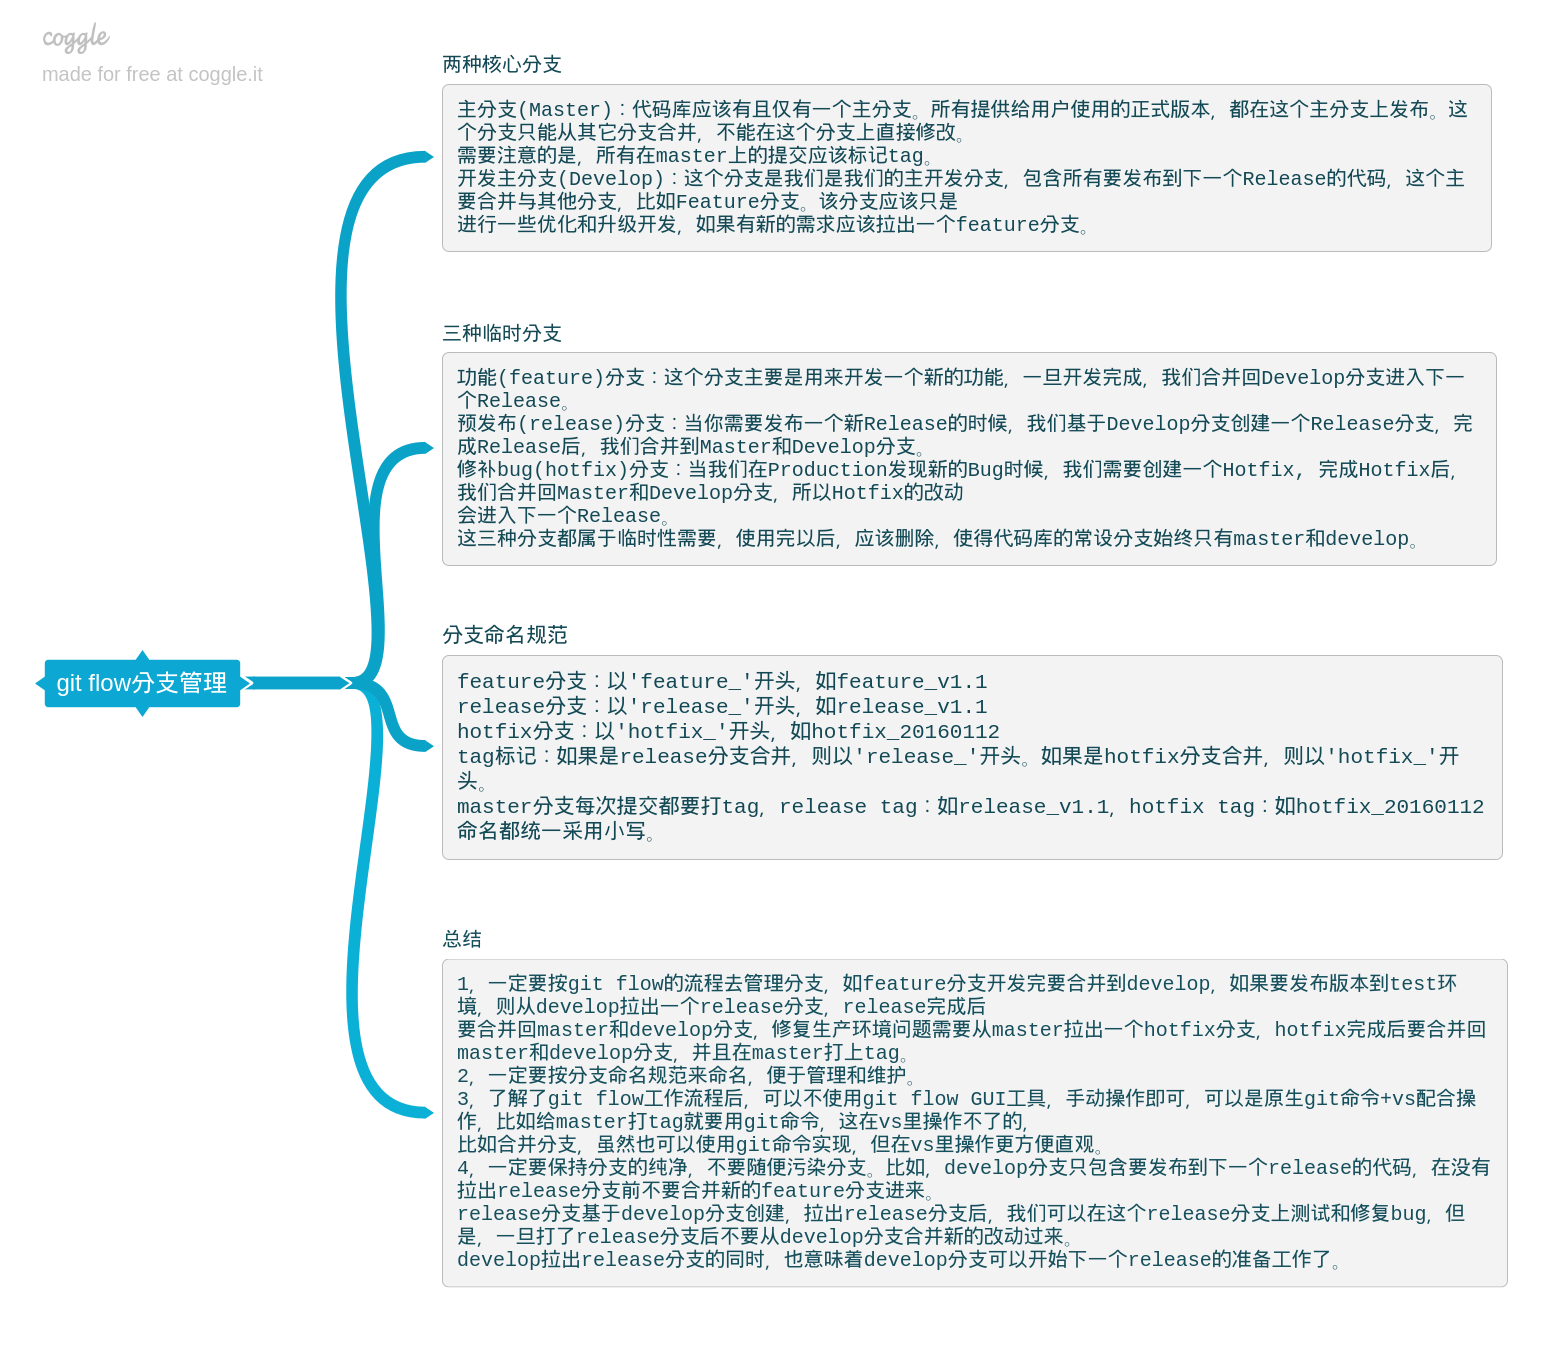
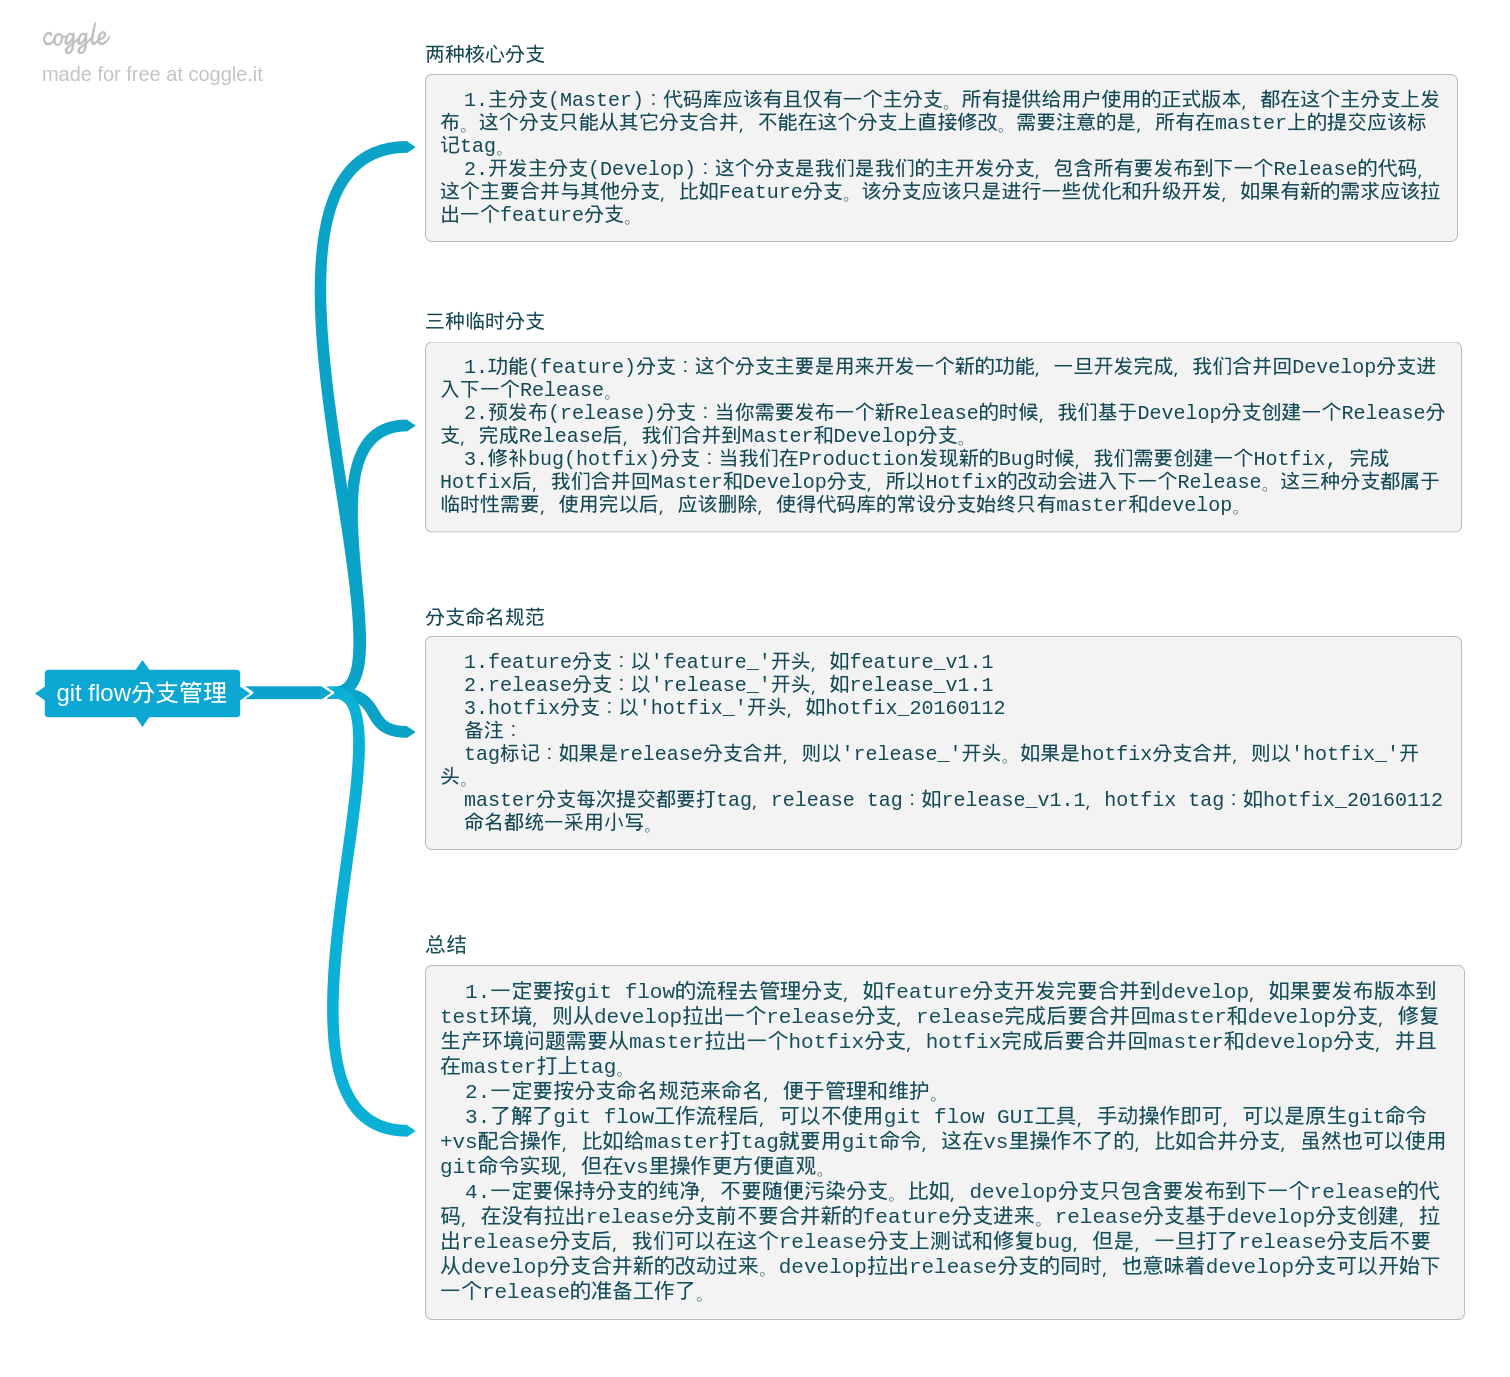
update

Changed region(s): [[0.0311, 0.0308, 0.9649, 0.9545], [0.0311, 0.0, 0.1556, 0.0616]]

diff --git a/iOS 知识总结/git flow分支管理.md b/iOS 知识总结/git flow分支管理.md
@@ -1,24 +1,25 @@
 * 两种核心分支
 
 ```
-    主分支(Master)：代码库应该有且仅有一个主分支。所有提供给用户使用的正式版本，都在这个主分支上发布。这个分支只能从其它分支合并，不能在这个分支上直接修改。需要注意的是，所有在master上的提交应该标记tag。
-    开发主分支(Develop)：这个分支是我们是我们的主开发分支，包含所有要发布到下一个Release的代码，这个主要合并与其他分支，比如Feature分支。该分支应该只是进行一些优化和升级开发，如果有新的需求应该拉出一个feature分支。
+    1.主分支(Master)：代码库应该有且仅有一个主分支。所有提供给用户使用的正式版本，都在这个主分支上发布。这个分支只能从其它分支合并，不能在这个分支上直接修改。需要注意的是，所有在master上的提交应该标记tag。
+    2.开发主分支(Develop)：这个分支是我们是我们的主开发分支，包含所有要发布到下一个Release的代码，这个主要合并与其他分支，比如Feature分支。该分支应该只是进行一些优化和升级开发，如果有新的需求应该拉出一个feature分支。
 ```    
 * 三种临时分支
 
 ```
-    功能(feature)分支：这个分支主要是用来开发一个新的功能，一旦开发完成，我们合并回Develop分支进入下一个Release。
-    预发布(release)分支：当你需要发布一个新Release的时候，我们基于Develop分支创建一个Release分支，完成Release后，我们合并到Master和Develop分支。
-    修补bug(hotfix)分支：当我们在Production发现新的Bug时候，我们需要创建一个Hotfix, 完成Hotfix后，我们合并回Master和Develop分支，所以Hotfix的改动会进入下一个Release。
+    1.功能(feature)分支：这个分支主要是用来开发一个新的功能，一旦开发完成，我们合并回Develop分支进入下一个Release。
+    2.预发布(release)分支：当你需要发布一个新Release的时候，我们基于Develop分支创建一个Release分支，完成Release后，我们合并到Master和Develop分支。
+    3.修补bug(hotfix)分支：当我们在Production发现新的Bug时候，我们需要创建一个Hotfix, 完成Hotfix后，我们合并回Master和Develop分支，所以Hotfix的改动会进入下一个Release。
     这三种分支都属于临时性需要，使用完以后，应该删除，使得代码库的常设分支始终只有master和develop。
 
 ```
 * 分支命名规范
 
 ```
-    feature分支：以'feature_'开头，如feature_v1.1
-    release分支：以'release_'开头，如release_v1.1
-    hotfix分支：以'hotfix_'开头，如hotfix_20160112
+    1.feature分支：以'feature_'开头，如feature_v1.1
+    2.release分支：以'release_'开头，如release_v1.1
+    3.hotfix分支：以'hotfix_'开头，如hotfix_20160112
+    备注：
     tag标记：如果是release分支合并，则以'release_'开头。如果是hotfix分支合并，则以'hotfix_'开头。
     master分支每次提交都要打tag，release tag：如release_v1.1，hotfix tag：如hotfix_20160112
     命名都统一采用小写。
@@ -26,9 +27,9 @@
 * 总结
 
 ```
-    1，一定要按git flow的流程去管理分支，如feature分支开发完要合并到develop，如果要发布版本到test环境，则从develop拉出一个release分支，release完成后要合并回master和develop分支，修复生产环境问题需要从master拉出一个hotfix分支，hotfix完成后要合并回master和develop分支，并且在master打上tag。
-    2，一定要按分支命名规范来命名，便于管理和维护。
-    3，了解了git flow工作流程后，可以不使用git flow GUI工具，手动操作即可，可以是原生git命令+vs配合操作，比如给master打tag就要用git命令，这在vs里操作不了的，比如合并分支，虽然也可以使用git命令实现，但在vs里操作更方便直观。
-    4，一定要保持分支的纯净，不要随便污染分支。比如，develop分支只包含要发布到下一个release的代码，在没有拉出release分支前不要合并新的feature分支进来。release分支基于develop分支创建，拉出release分支后，我们可以在这个release分支上测试和修复bug，但是，一旦打了release分支后不要从develop分支合并新的改动过来。develop拉出release分支的同时，也意味着develop分支可以开始下一个release的准备工作了。
+    1.一定要按git flow的流程去管理分支，如feature分支开发完要合并到develop，如果要发布版本到test环境，则从develop拉出一个release分支，release完成后要合并回master和develop分支，修复生产环境问题需要从master拉出一个hotfix分支，hotfix完成后要合并回master和develop分支，并且在master打上tag。
+    2.一定要按分支命名规范来命名，便于管理和维护。
+    3.了解了git flow工作流程后，可以不使用git flow GUI工具，手动操作即可，可以是原生git命令+vs配合操作，比如给master打tag就要用git命令，这在vs里操作不了的，比如合并分支，虽然也可以使用git命令实现，但在vs里操作更方便直观。
+    4.一定要保持分支的纯净，不要随便污染分支。比如，develop分支只包含要发布到下一个release的代码，在没有拉出release分支前不要合并新的feature分支进来。release分支基于develop分支创建，拉出release分支后，我们可以在这个release分支上测试和修复bug，但是，一旦打了release分支后不要从develop分支合并新的改动过来。develop拉出release分支的同时，也意味着develop分支可以开始下一个release的准备工作了。
 
 ```

diff --git a/iOS 知识总结/iOS中常见的设计模式.md b/iOS 知识总结/iOS中常见的设计模式.md
@@ -1,0 +1,45 @@
+## iOS中常见的设计模式
+
+#### 1.工厂方法模式（Factory Method）
+提供一个创建一系列相关或相互依赖对象的接口，而无需指定它们具体的类。
+
++(instancetype)buttonWithType:(UIButtonType)buttonType;
+[NSNumber numberWithBool:YES] 
+[NSNumber numberWithInt:1]
+
+#### 2.享元模式（Flyweight）
+运用共享技术有效地支持大量细粒度的对象。
+
+UITableViewCell的复用
+
+#### 3.迭代器模式（Iterator）
+提供一种方法顺序访问一个聚合对象中各个元素，而又不暴露该对象的内部表示。
+
+iOS的Block迭代、数组迭代都是迭代器模式的典型实现。
+
+#### 4.单例模式（Singleton）
+保证一个类仅有一个实例，并提供一个访问它的全局访问点。
+
+iOS的UIApplicationDelegate就是一个单列模式的实现。
+
+#### 5.观察者模式（Observer）
+定义了一种一对多的依赖关系，让多个观察者对象同时监听某一个主题对象。这个主题对象在状态发生变化时，会通知所有观察者对象，使它们能够自动更新自己。
+
+iOS中的KVO、NSNotication都是观察者模式。
+
+#### 6.职责链模式（Chain of Responsibility）
+使多个对象都有机会处理请求，从而避免请求的发送者和接收者之间的耦合关系。将这个对象连成一条链，并沿着这条链传递该请求，直到有一个对象处理它为止。
+
+iOS事件的传递和响应就是职责链模式的实现。
+
+#### 7.备忘录模式（Memento）
+在不破坏封装性的前提下，捕获一个对象的内部状态，并在该对象之外保存这个状态。这样以后就可将该对象恢复到原先保存的状态。
+
+iOS对对象的归档接档。
+
+#### 8.原型模式（Prototype）
+用原型实例指定创建对象的种类，并且通过拷贝这些原型创建新的对象。原型模式是非常简单的一种设计模式, 在多数情况下可被理解为一种深复制的行为。在Objective-C中使用原型模式, 首先要遵循NSCoping协议(OC中一些内置类遵循该协议, 例如NSArray, NSMutableArray等)。还有KVO的实现原理也是原型模式。
+
+
+
+
